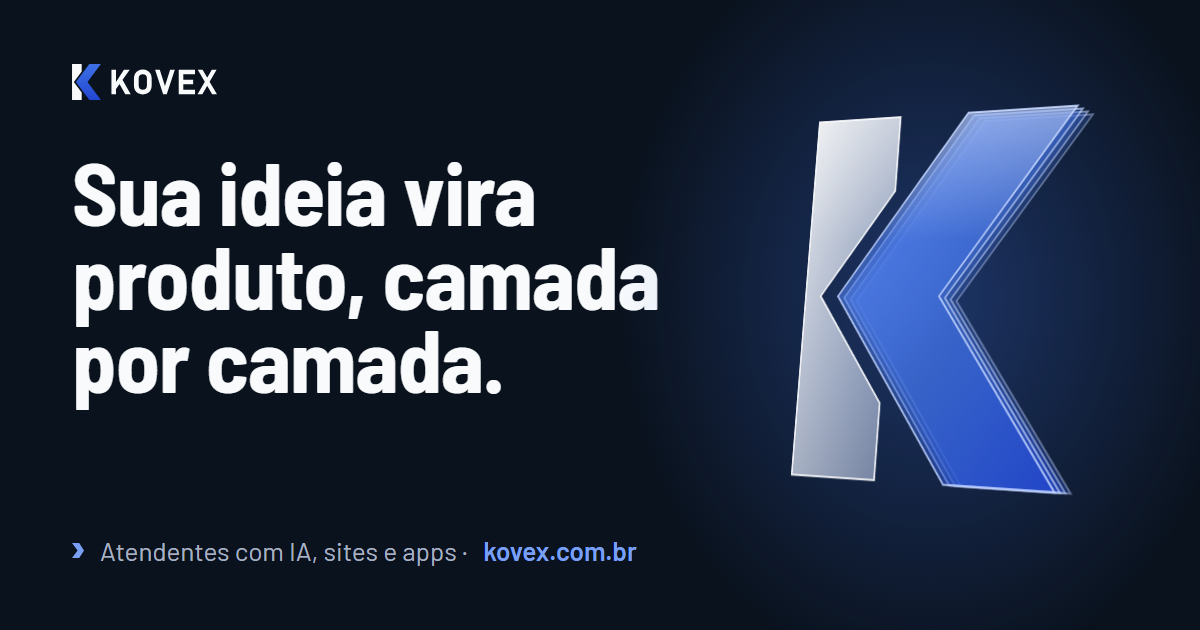
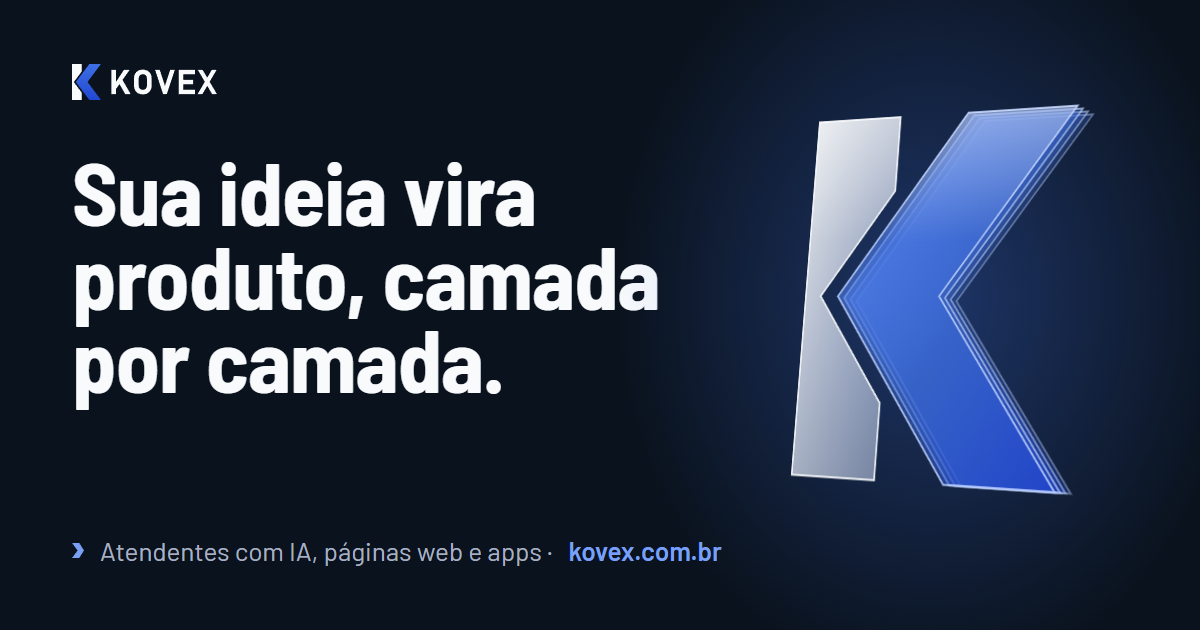
Update

Changed region(s): [[0.2467, 0.8444, 0.6167, 0.9048]]

diff --git a/docs/og/og.html b/docs/og/og.html
@@ -53,7 +53,7 @@
 
 <img class="logo" src="../marca/kovex-lockup-horizontal-dark.svg" alt="">
 <h1>Sua ideia vira produto, camada por camada.</h1>
-<p class="rodape"><span class="chevron"></span>Atendentes com IA, sites e apps · <b>kovex.com.br</b></p>
+<p class="rodape"><span class="chevron"></span>Atendentes com IA, páginas web e apps · <b>kovex.com.br</b></p>
 
 <div class="vidro">
   <div class="pilha">

diff --git a/README.md b/README.md
@@ -183,5 +183,4 @@ Hoje existem `/atendente-de-whatsapp-com-ia`, `/criacao-de-sites` e `/desenvolvi
   não pelo WhatsApp pessoal; entrou "Sem fidelidade" e a pergunta sobre passar de 2.000 respostas. Em 14/11,
   landing page e site viraram um serviço só, "páginas web", a partir de R$ 200 (home, abertura, rodapé, title e
   description, e a página `/criacao-de-sites`, que manteve o endereço); o WhatsApp do site passou para o número
-  oficial. **Ainda não publicado**; a imagem de compartilhamento (`opengraph-image.png`) e o texto alternativo
-  dela ainda dizem "sites e apps".
+  oficial. Publicado em 14/11 (22:06) e conferido no ar em 15/11 (número, "páginas web", R$ 200, tabela de preços iguais ao plano). Em 15/11 a imagem de compartilhamento e o texto alternativo (`opengraph-image.png`, `twitter-image.png` e os `.alt.txt`) passaram a dizer "páginas web e apps"; **falta subir**.
